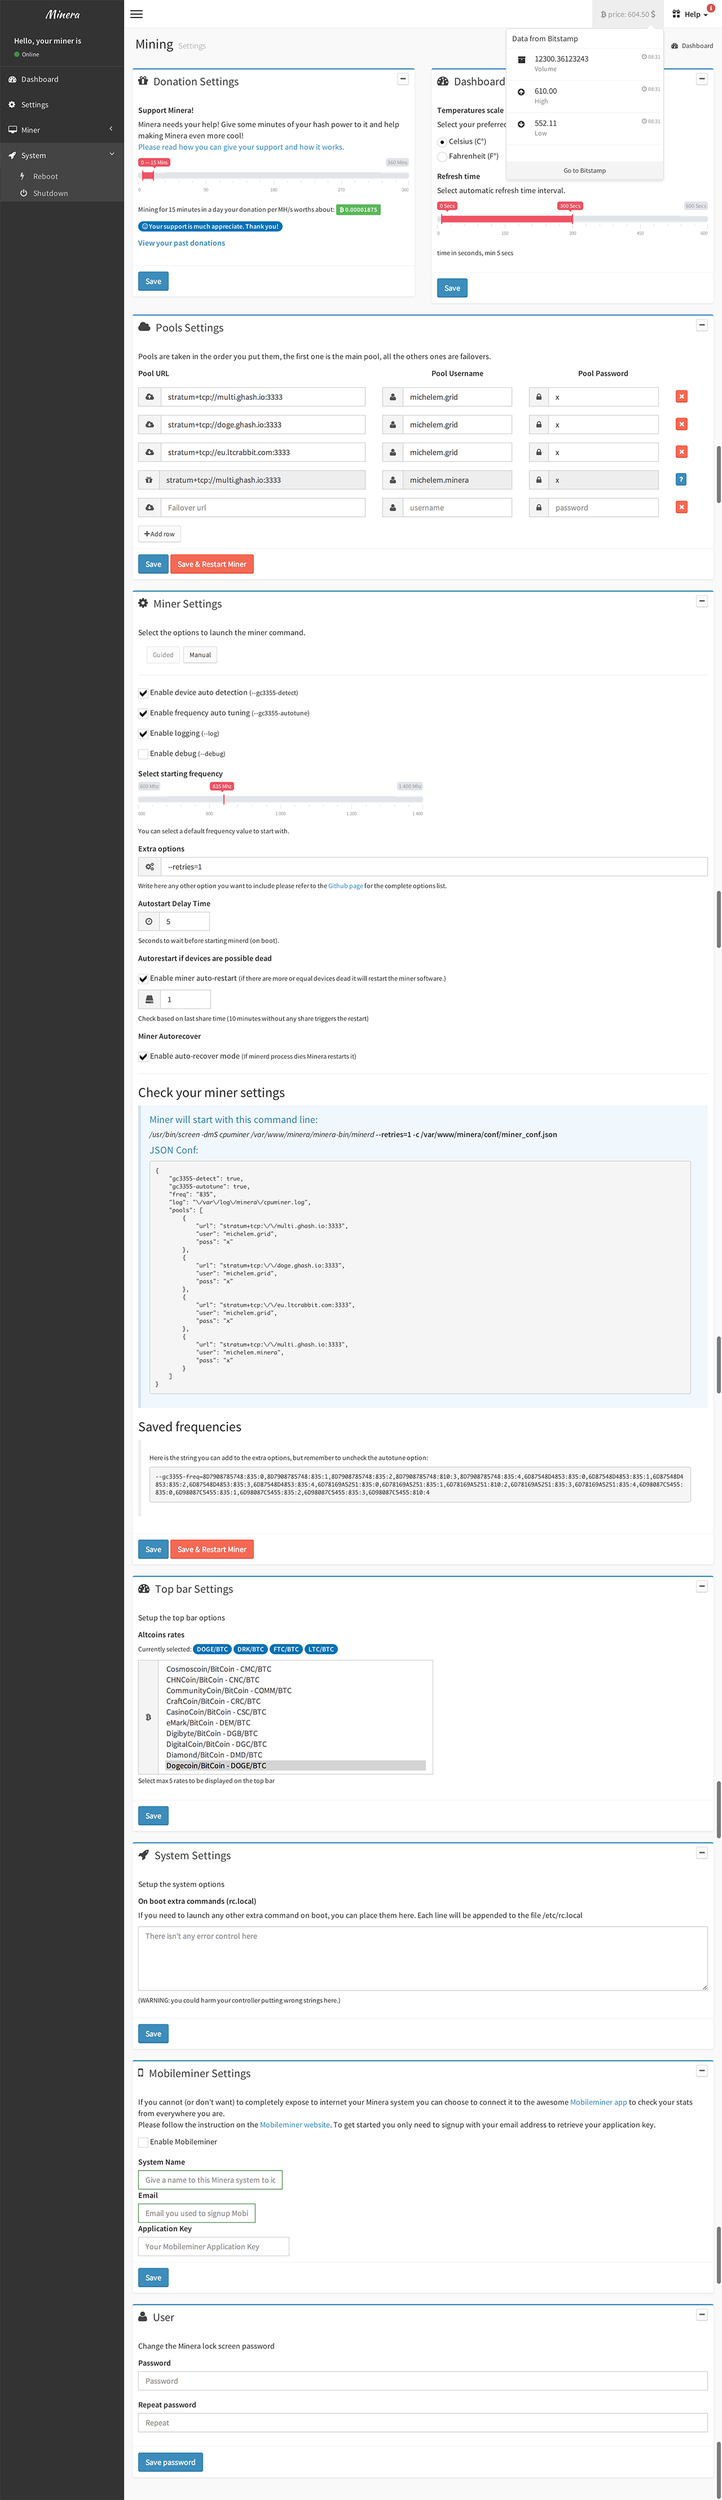
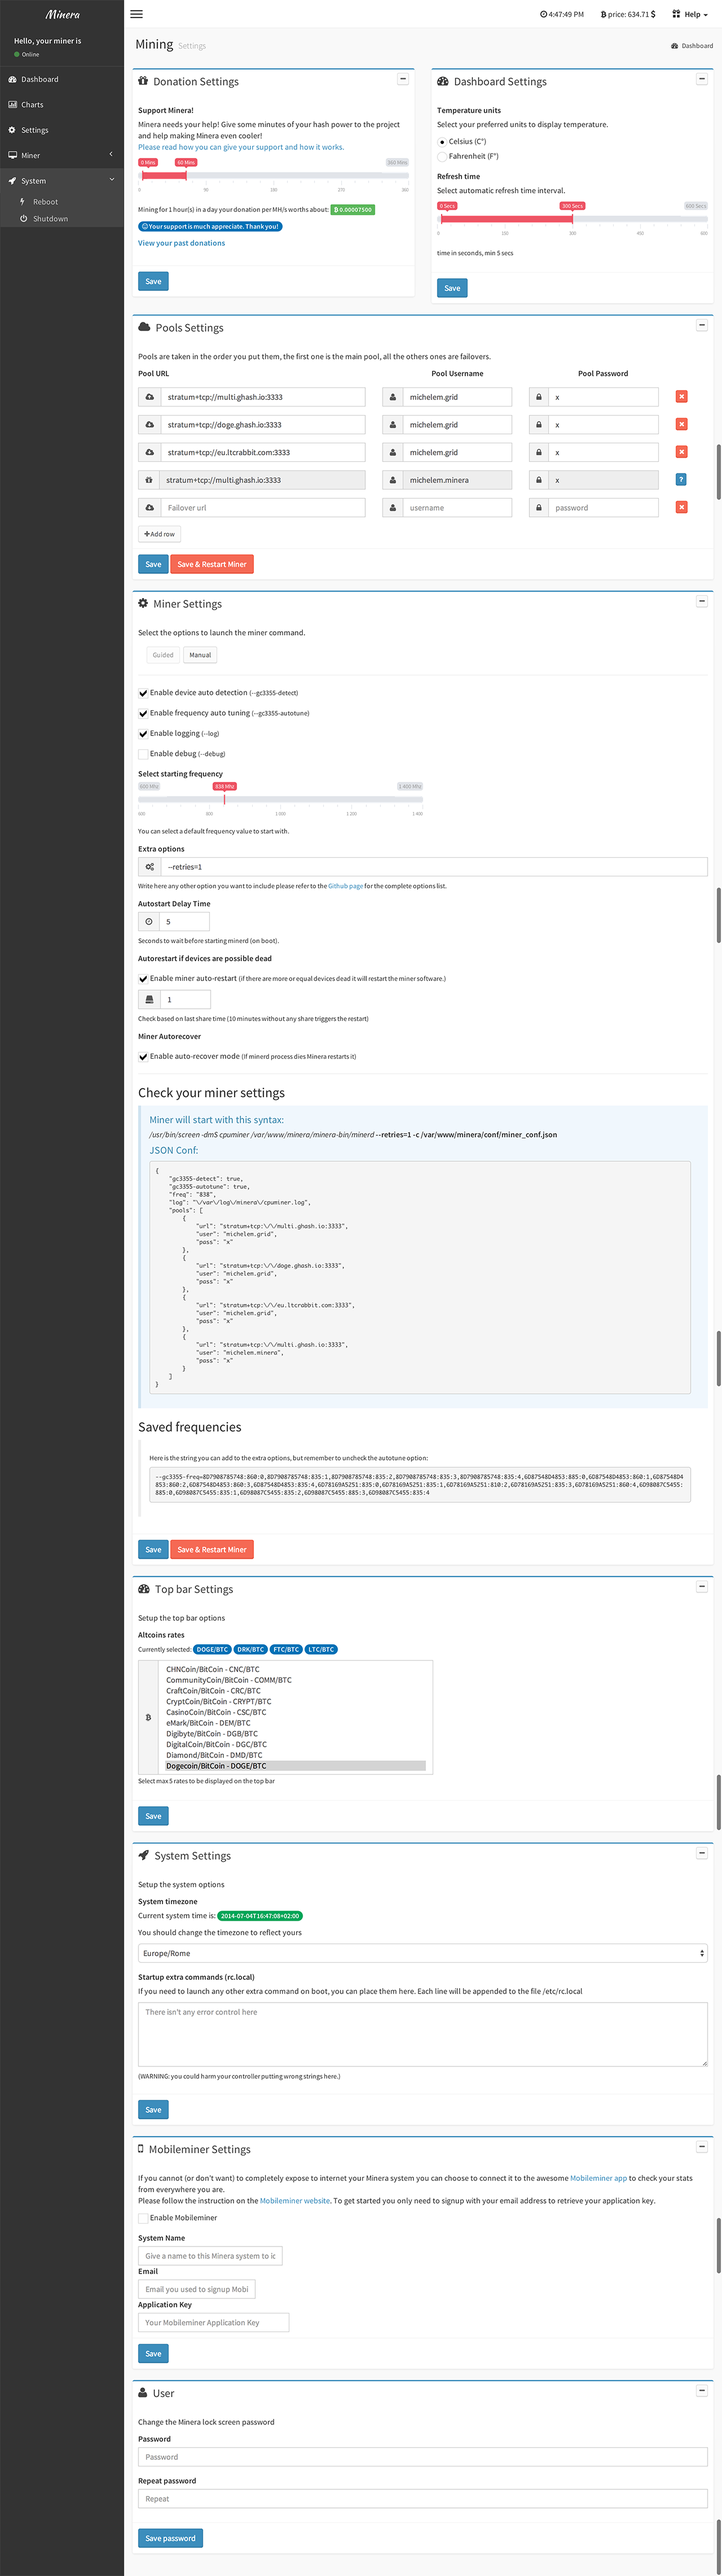
Added average stats badge | Updated screenshots and version | Fixed yearly chart

diff --git a/application/views/include/footer.php b/application/views/include/footer.php
@@ -831,8 +831,6 @@
 						
 						$.each( data.avg, function( akey, aval ) 
 						{
-							console.log(aval);
-
 							var avgs = {}; avgs.hrCurrentText = "-"; avgs.hrCurrent = 0; avgs.hrPast = 0;
 							if (aval[0])
 							{
@@ -845,9 +843,9 @@
 							}
 
 							if (avgs.hrPast > avgs.hrCurrent)
-								avgs.arrow = '<i class="fa fa-arrow-circle-o-down" style="color:#f56954;"></i>';
+								avgs.arrow = '<i class="fa fa-chevron-down" style="color:#f56954;"></i>';
 							else if (avgs.hrPast < avgs.hrCurrent)
-								avgs.arrow = '<i class="fa fa-arrow-circle-o-up" style="color:#00a65a;"></i>';
+								avgs.arrow = '<i class="fa fa-chevron-up" style="color:#00a65a;"></i>';
 							else
 								avgs.arrow = '<i class="fa fa-arrows-h"></i>';								
 

diff --git a/application/views/include/sidebar.php b/application/views/include/sidebar.php
@@ -23,6 +23,7 @@
                                 <i class="fa fa-clock-o"></i> <span class="toptime"></span>
                             </a>
                         </li>
+                        <?php if ($appScript) : ?>
                         <!-- Averages -->
 						<li class="messages-menu messages-avg">
                             <a href="#" class="dropdown-toggle" data-toggle="dropdown">
@@ -37,6 +38,7 @@
                                 <li class="footer"><a href="<?php echo site_url("app/charts") ?>">Go to Charts</a></li>
                             </ul>
                         </li>
+                        <?php endif; ?>
 						<?php if (isset($btc->volume)) : ?>
 						<!-- BTC/USD rates -->
 						<li class="messages-menu">

diff --git a/application/models/util_model.php b/application/models/util_model.php
@@ -281,8 +281,8 @@ class Util_model extends CI_Model {
 				$avg = 3600;
 			break;
 			case "yearly":
-				$period = 3600*24*30;
-				$range = 12;
+				$period = 3600*24*14;
+				$range = 27;
 				$avg = 86400;
 			break;
 		}

diff --git a/README.md b/README.md
@@ -42,17 +42,26 @@ This is a list of some of the Minera's features:
 * Hashrate history
 * Errors/Rejects history
 * Sysload monitor
+* Bitcoin/Crypto currencies rates
+* Average hashrate stats
+
+**Charts**
+
+* Hashrate and Acceptes/Rejected/Errors
+* Hourly, daily, monthly, yearly
 
 **Settings**
 
-* Pools setting with main/failovers (pool are live checked)
+* Pools setting with main/failovers
 * Mobileminer support - Remote monitoring (http://www.mobileminerapp.com/#miners)
+* Donations time based
 * Guided or Manual miner configuration
 * Device autotune
 * Device autodetection
 * Logging
 * Start frequency
 * Auto-recover mode
+* System timezone
 * Extra options
 * Dashboard refresh time
 * Minera password management
@@ -196,7 +205,7 @@ TODO
 
 * ~~Create an img file “plug&play”~~
 * ~~Add some errors control to installer~~
-* Add daily/weekly/monthly charts
+* ~~Add daily/weekly/monthly charts~~
 * ~~Add more crypto-currencies exchange rates~~
 * Add more system monitor (CPU/Mem)
 * ~~Add system temperature~~
@@ -217,6 +226,10 @@ Lockscreen:
 Dashboard:
 
 [![Dashboard](https://github.com/michelem09/minera/raw/master/assets/img/screen_minera_dashboard.png)](https://github.com/michelem09/minera/raw/master/assets/img/screen_minera_dashboard_hi.png)
+
+Charts:
+
+[![Charts](https://github.com/michelem09/minera/raw/master/assets/img/screen_minera_charts.png)](https://github.com/michelem09/minera/raw/master/assets/img/screen_minera_charts_hi.png)
 
 Settings:
 
